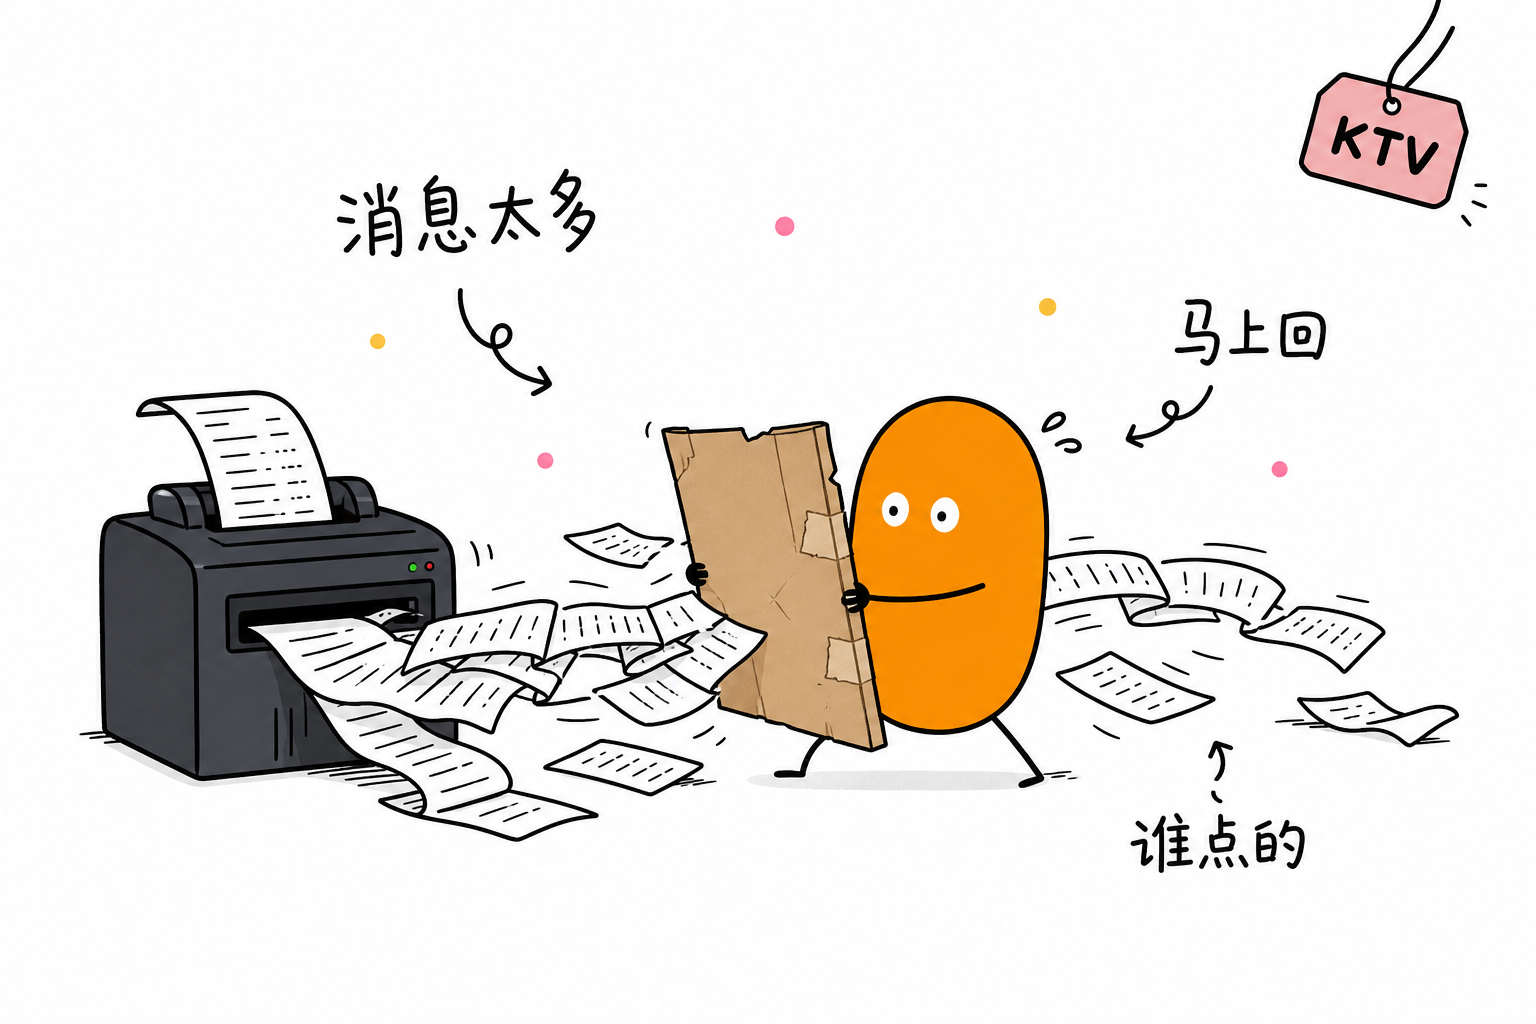
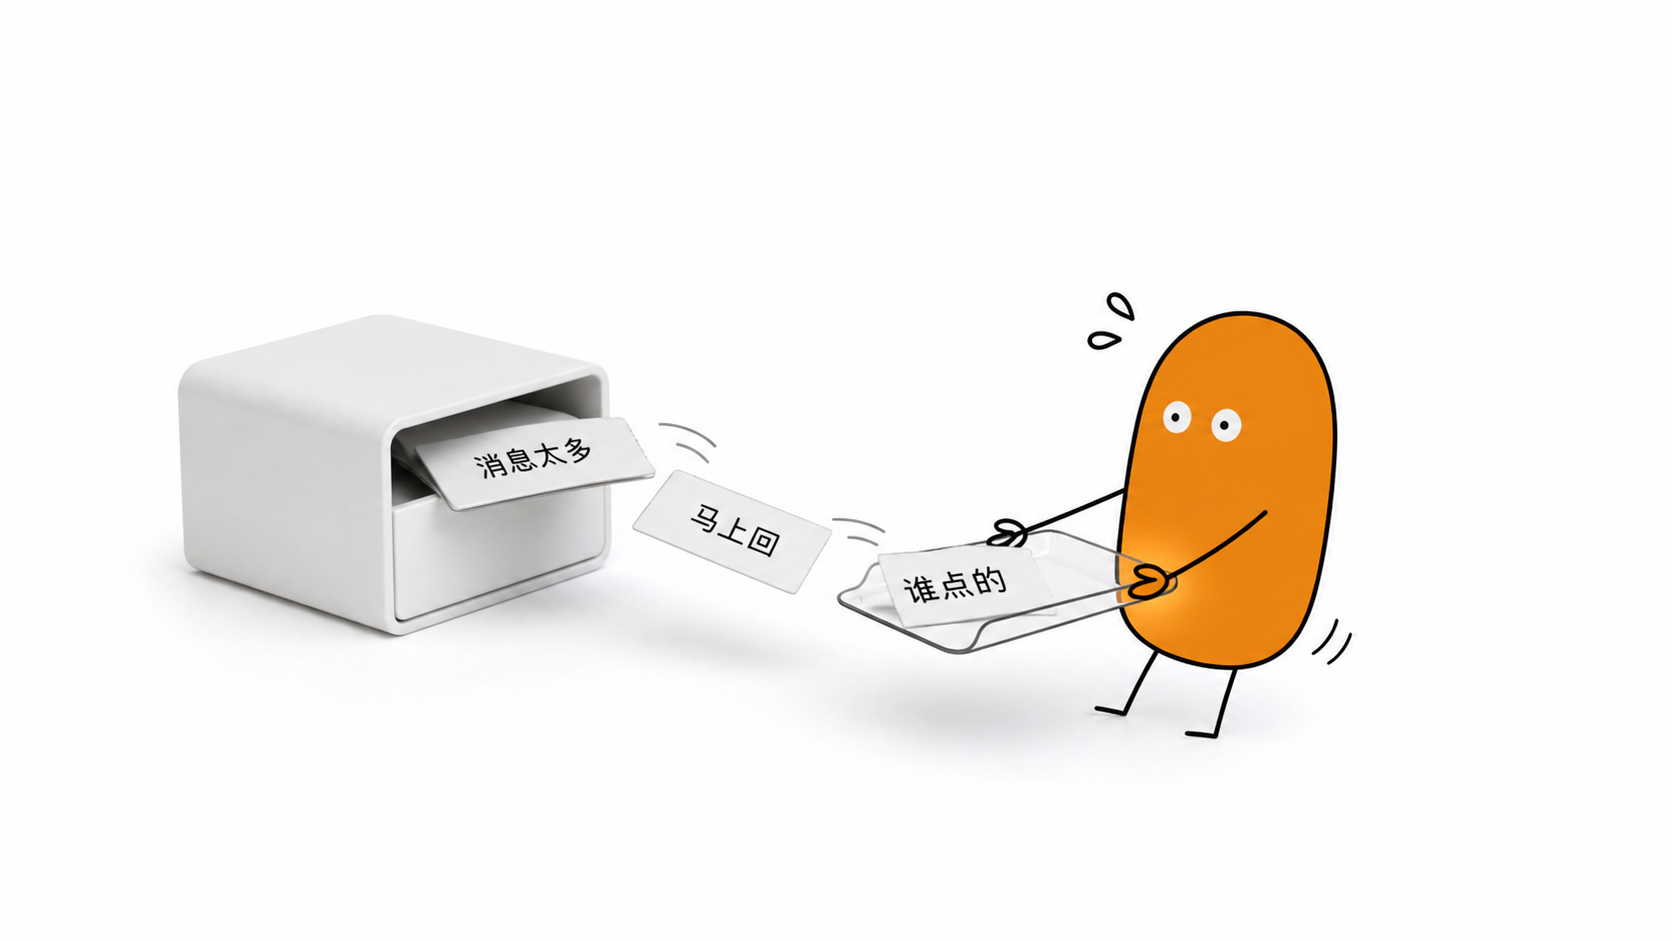
fix: modernize outdated physical objects in scene-skill-core masters
- Regenerate master 02 (info-overload): replace old dot-matrix/receipt
  printer with a modern matte white dispenser box, matching the
  documented target spec.
- physical-master-anchors.md: add modern-cable rule to master 03 and
  modern-output-device rule to master 02; note pad/big-screen variant
  on master 01.
- physical-object-patterns.md: add deprecated interface/device
  blacklist (old ethernet, USB-A, VGA, floppy/CD, fax, dot-matrix
  printers) and a new "协作对齐现场" pattern for pad + big-screen scenes.
- gitignore local .backup-masters/ used to keep the old master 02
  before overwrite.

diff --git a/scene-skill-core/references/physical-object-patterns.md b/scene-skill-core/references/physical-object-patterns.md
@@ -90,6 +90,18 @@
 
 避免复刻：优先使用指标看板、进度条压片、优先级卡、任务堆叠卡、自动化队列、透明资料托，不回到传统称重道具。
 
+### 7. 协作对齐现场
+
+适合：跨端同步、双人核对、看板汇报、数据对齐、远程协作确认。
+
+画法：
+
+- 主角色手持一个现代平板 / 手持屏作为随身端。
+- 场景另一侧是超窄边框壁挂大屏或桌面立牌屏作为共享端，屏幕内容用抽象卡片、进度条或看板示意，不出现真实 UI 截图或品牌 Logo。
+- 主角色把随身端转向共享端，做对齐、同步或确认动作；也可以是双人各持一端隔空对齐。
+
+避免复刻：不要固定成"平板转向电视屏"一种构图；可换成手持屏 vs 桌面立牌屏、平板 vs 投影墙面、双人各持一屏隔空对齐等变体，屏幕内容也要跟随当前话题换成对应的卡片/图表示意。
+
 ## 原创隐喻三步
 
 1. 把观点写成冲突句：
@@ -187,8 +199,16 @@ Z = 被吞进去、被拽回、被重命名、被分层、被拦截
 - 读者熟悉。
 - 可以和主角色发生物理互动。
 - 不需要 UI 截图也能表达主题。
-- 默认现代化、轻量化、干净：优先近几年常见的无线设备、圆角卡片、哑光小物、磁吸底座、便携收纳盒、轻薄标签、简洁夹扣。
+- 默认现代化、轻量化、干净：优先近几年常见的无线设备、圆角卡片、哑光小物、磁吸底座、便携收纳盒、轻薄标签、简洁夹扣、现代平板、超窄边框大屏。
 - 避免复古化、笨重化和舞台化：除非用户明确要求，不选年代感强、脏乱、厚重或商业舞台感过强的道具。
+
+过时接口 / 设备禁用清单（除非用户明确要求怀旧或机房年代感）：
+
+- 线材：禁用老式网线（RJ45 水晶头）、USB-A 方口公头、VGA/串口线、卷线电话线；优先编织 Type-C 快充线、无线充电器、磁吸数据线，或干脆不画具体接口。
+- 显示设备：禁用老式厚边框 CRT/液晶显示器、投影仪滚轮幕布；优先超窄边框屏幕、平板、抽象屏幕边缘。
+- 存储介质：禁用软盘、光盘、U 盘拉绳；优先云图标、抽象数据卡、无线传输意象。
+- 办公道具：禁用老式风琴文件夹以外的厚重档案盒、大头针公告板、传真机；优先轻薄卡片、磁吸白板条、圆角标签。
+- 输出/打印设备：禁用老式针式打印机、收据打印机、旧办公出纸机；「消息/任务涌出」类场景优先画成哑光白色圆角小盒或任务分发器，不画打印机滚轴和收据纸。
 
 可选轻娱乐锚点（不强制）：现代无线麦、短柄便携麦、磁吸充电座、家庭 K 歌音箱、车载 K 歌音箱、便携音箱、耳机、遥控器、点歌器、票据、歌单卡、包房号牌、房态牌、服务票、路线卡、大中控屏边缘、抽象歌词条、无线充电板、中控岛、杯架、中央扶手、座椅缝、车门储物格、氛围灯条、无 Logo 方向盘局部、沙发靠垫、歌词牌、曲库盒、标签机、设备卡、同步贴纸、连接线、铃鼓、彩纸点。
 
@@ -205,8 +225,9 @@ Z = 被吞进去、被拽回、被重命名、被分层、被拦截
 | **出行娱乐 / 移动音乐陪伴** | 01 / 02 | 便携麦克风、便携音箱、路线卡、轻量歌单卡、收纳盒 | 拎音箱 / 递歌单 / 收麦 | 路上也唱 / 下一站 / 轻一点 |
 | **曲库更新** | 04 / 05 | 曲库盒、歌单卡、标签机、新歌贴纸 | 塞卡 / 贴标签 / 对齐 | 新歌来了 / 别漏掉 / 同步一下 |
 | **员工工牌** | 05 | 员工工牌、挂绳、值班贴、权限卡 | 刷卡 / 兜底 / 接班 / 改状态 | 值班中 / 去现场 / 先处理 |
-| **Coding 研发** | 03 | 小笔记本、错误便签、打结线缆 | 解结 / 排查 | 又报错 / 先排查 / 今晚上线 |
+| **Coding 研发** | 03 | 小笔记本、错误便签、打结的现代编织快充线 | 解结 / 排查 | 又报错 / 先排查 / 今晚上线 |
 | **产品发布会** | 01 变体 | 讲台、样机盒、翻页笔 | 上台前紧张 / 被拉上去 | 开始了 / 别紧张 / 台上 |
+| **协作对齐** | 01 | 现代平板、超窄边框壁挂大屏 | 转屏对齐 / 同步 / 确认 | 对一下 / 同步一下 / 确认一下 |
 
 共通约束：纯白底、flat 2D、主角色 **无身上 Logo**；禁止 App/UI 截图、Keynote 海报、包厢实景、IDE 界面。
 

diff --git a/scene-skill-core/references/physical-master-anchors.md b/scene-skill-core/references/physical-master-anchors.md
@@ -48,6 +48,7 @@ assets/masters/01-alignment-pull-in.png
 适合：
 
 - 会议、同步、对齐、临时拉人、需求被再次打开、下班前被叫回。
+- 变体：跨端协作对齐（主角色手持平板转向壁挂大屏做同步/确认动作），拉力关系换成「随身端转向共享端」的对齐动作，见 `physical-object-patterns.md` 「7. 协作对齐现场」。
 
 抽象骨架：
 
@@ -84,6 +85,11 @@ assets/masters/02-info-overload.png
 - 可选 1 个很短的来源标签，但不是 UI 截图，也不要出现真实品牌名。
 - 标签点出过载话术（如「消息太多」「马上回」「谁点的」）。
 
+现代出口规则：
+
+- 「出口」默认画成**哑光白色 / 浅灰圆角小盒**（类似现代小型收纳盒或任务分发器），简洁无按钮或极简单一开口，不做产品广告式细节。
+- 禁止画成老式针式打印机、收据打印机、旧办公出纸机这类过时设备，除非用户明确要求怀旧/机房年代感。
+
 适合：
 
 - 消息过载、点歌条涌出、任务涌出、已读不等于完成、催促。
@@ -108,6 +114,7 @@ assets/masters/02-info-overload.png
 - 消息卡文字太多、标签过密。
 - 主物件过大，画面像设备广告。
 - 误画成旧版手机消息堆、旧办公出纸或怀旧道具拓扑。
+- 出口画成老式针式打印机、收据打印机或其他过时办公设备。
 
 ### 03 problem-knot-alert
 
@@ -140,6 +147,12 @@ assets/masters/03-problem-knot-alert.png
 - 主角色动作集中在「结」上。
 - 标签贴近问题点，不要把全流程画出来。
 
+现代线材规则：
+
+- 用「线缆」隐喻时默认画成**现代编织快充线 / Type-C 数据线**：哑光编织线身、简洁接口、无外露金属针脚。
+- 禁止画成老式网线（RJ45 水晶头）、老式方口 USB-A 公头、VGA/串口、电话线卷线这类过时接口，除非用户明确要求怀旧/机房年代感。
+- 也可以不具体画出接口，只呈现线身打结，交给主角色的动作和标签讲清楚「卡住」的处境，不必强调是哪种线材。
+
 失败信号：
 
 - 直接复制「横穿黑线缆 + 中央结 + 主角色双手握结 + 右侧竖排标签」的拓扑。
@@ -147,6 +160,7 @@ assets/masters/03-problem-knot-alert.png
 - 标签散太远，看起来像海报注释。
 - 配件过多，冲淡「打结」的核心现场。
 - 误画成桌游卡牌、解谜 MASTER 卡（品牌误认）。
+- 线缆接口画成老式网线水晶头、USB-A 方头或其他过时接口，让画面显得年代感过重。
 
 ### 04 review-rework
 
